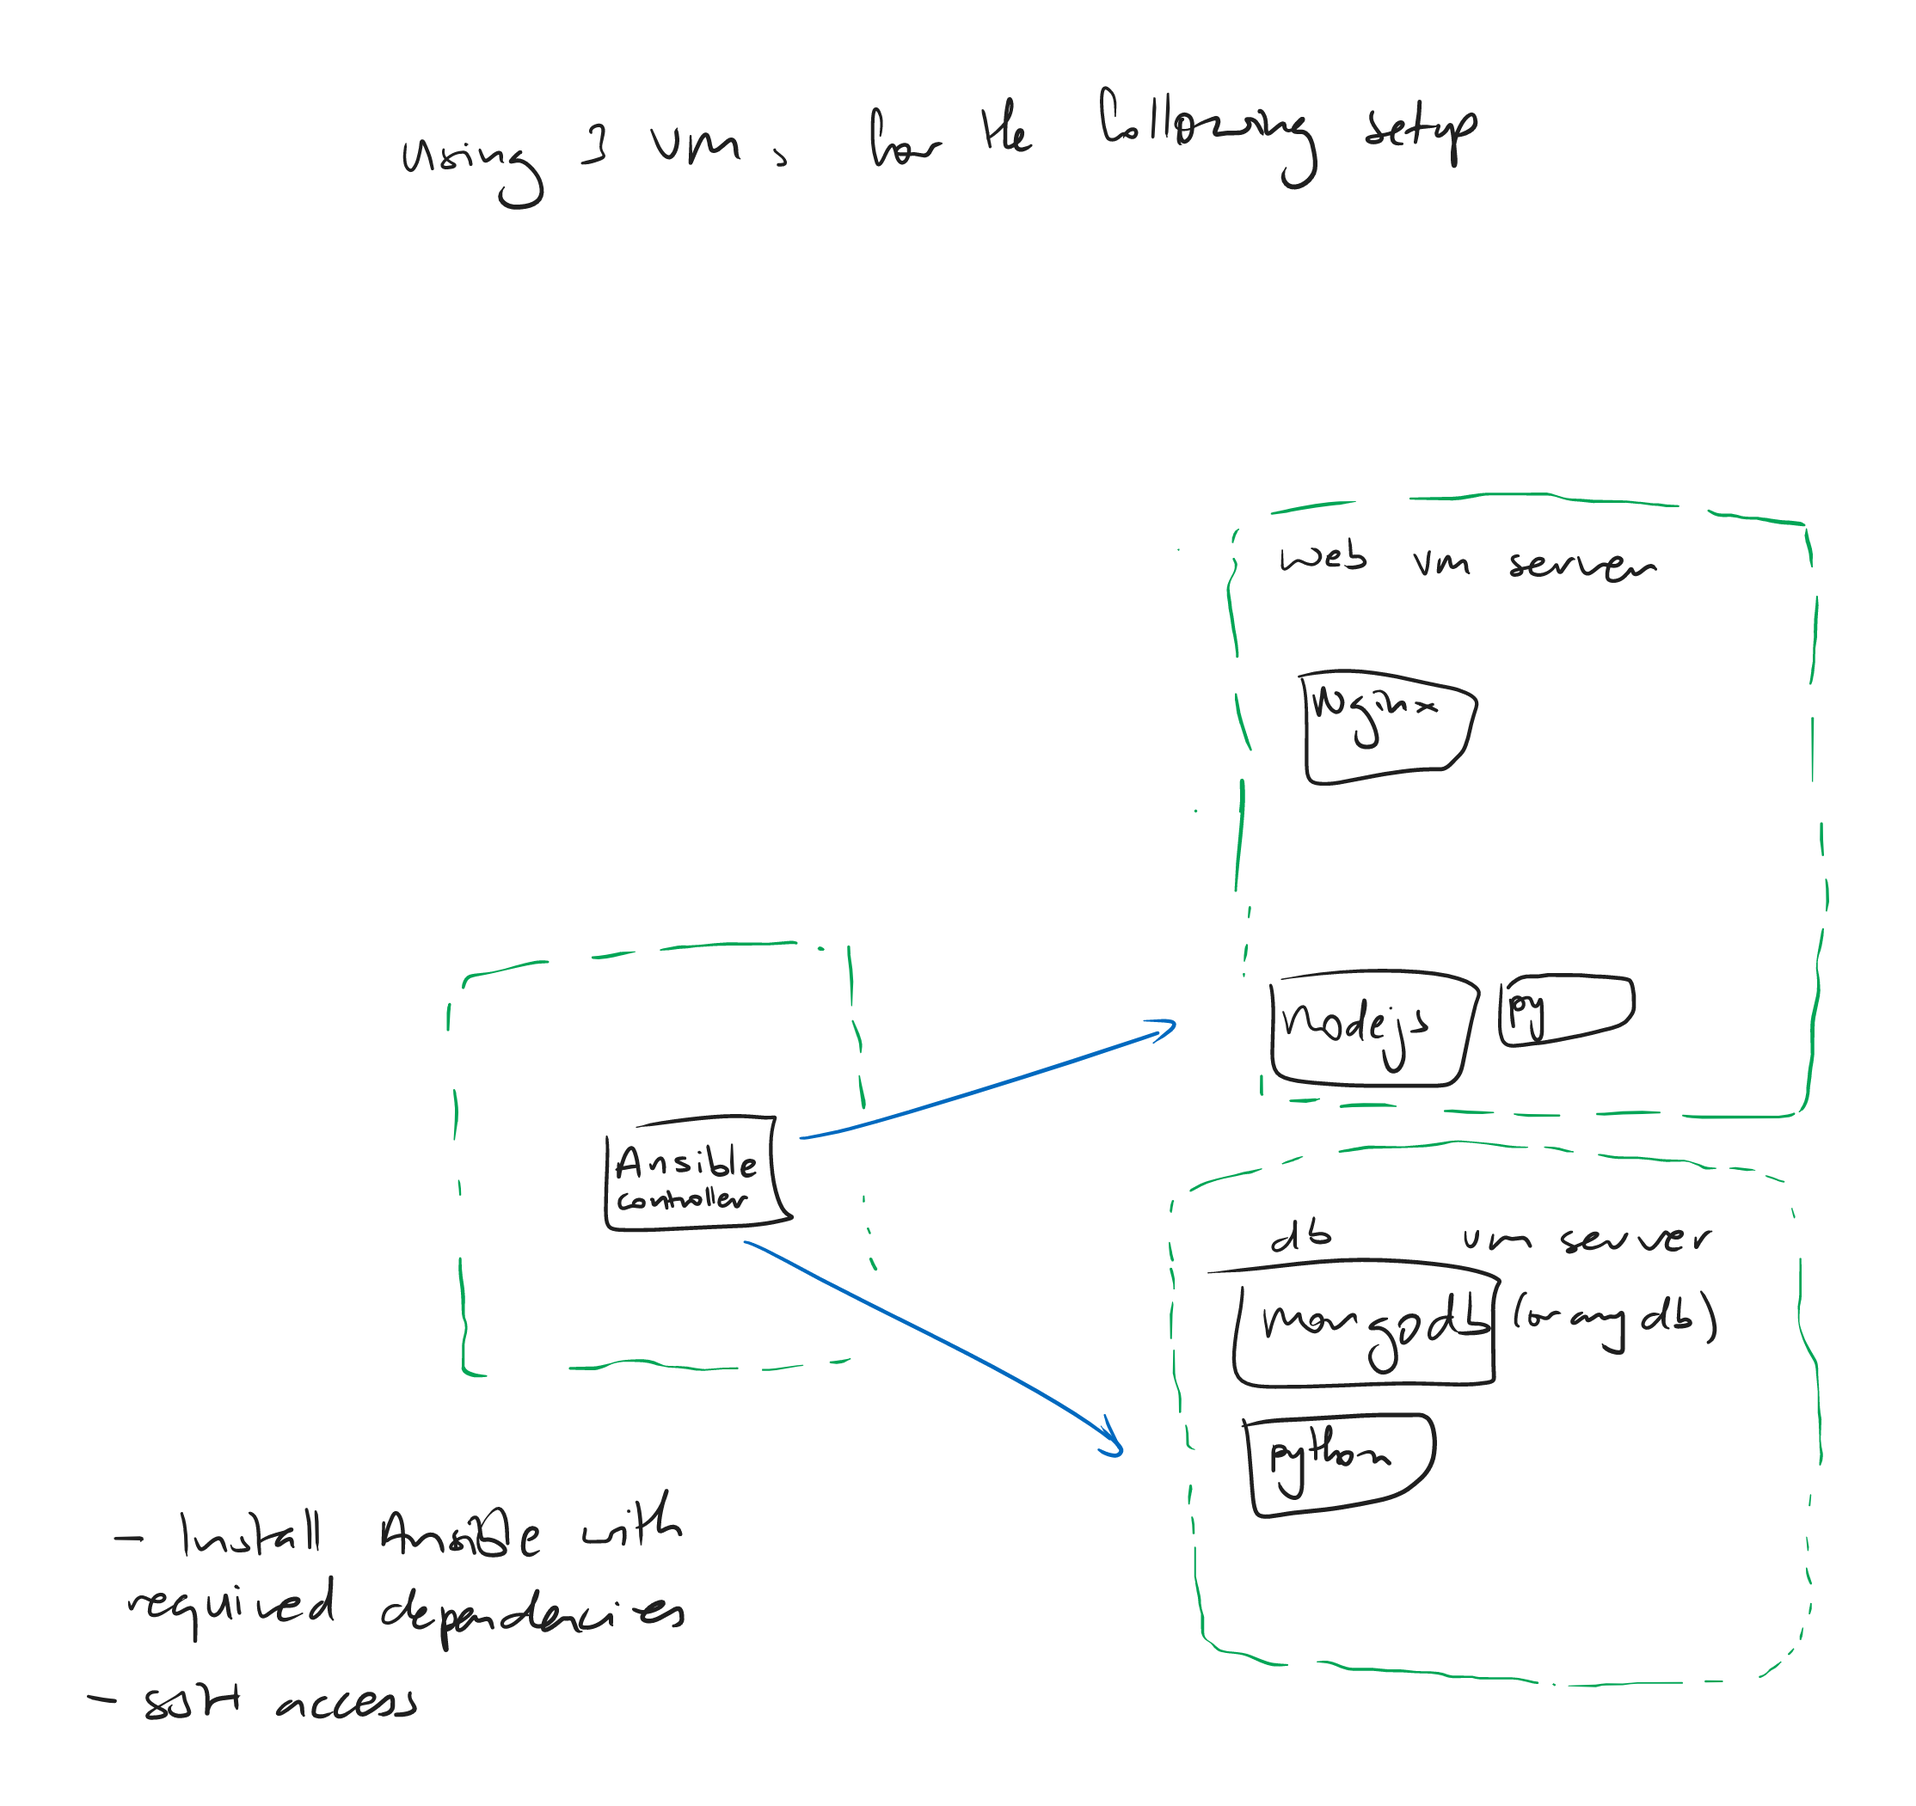
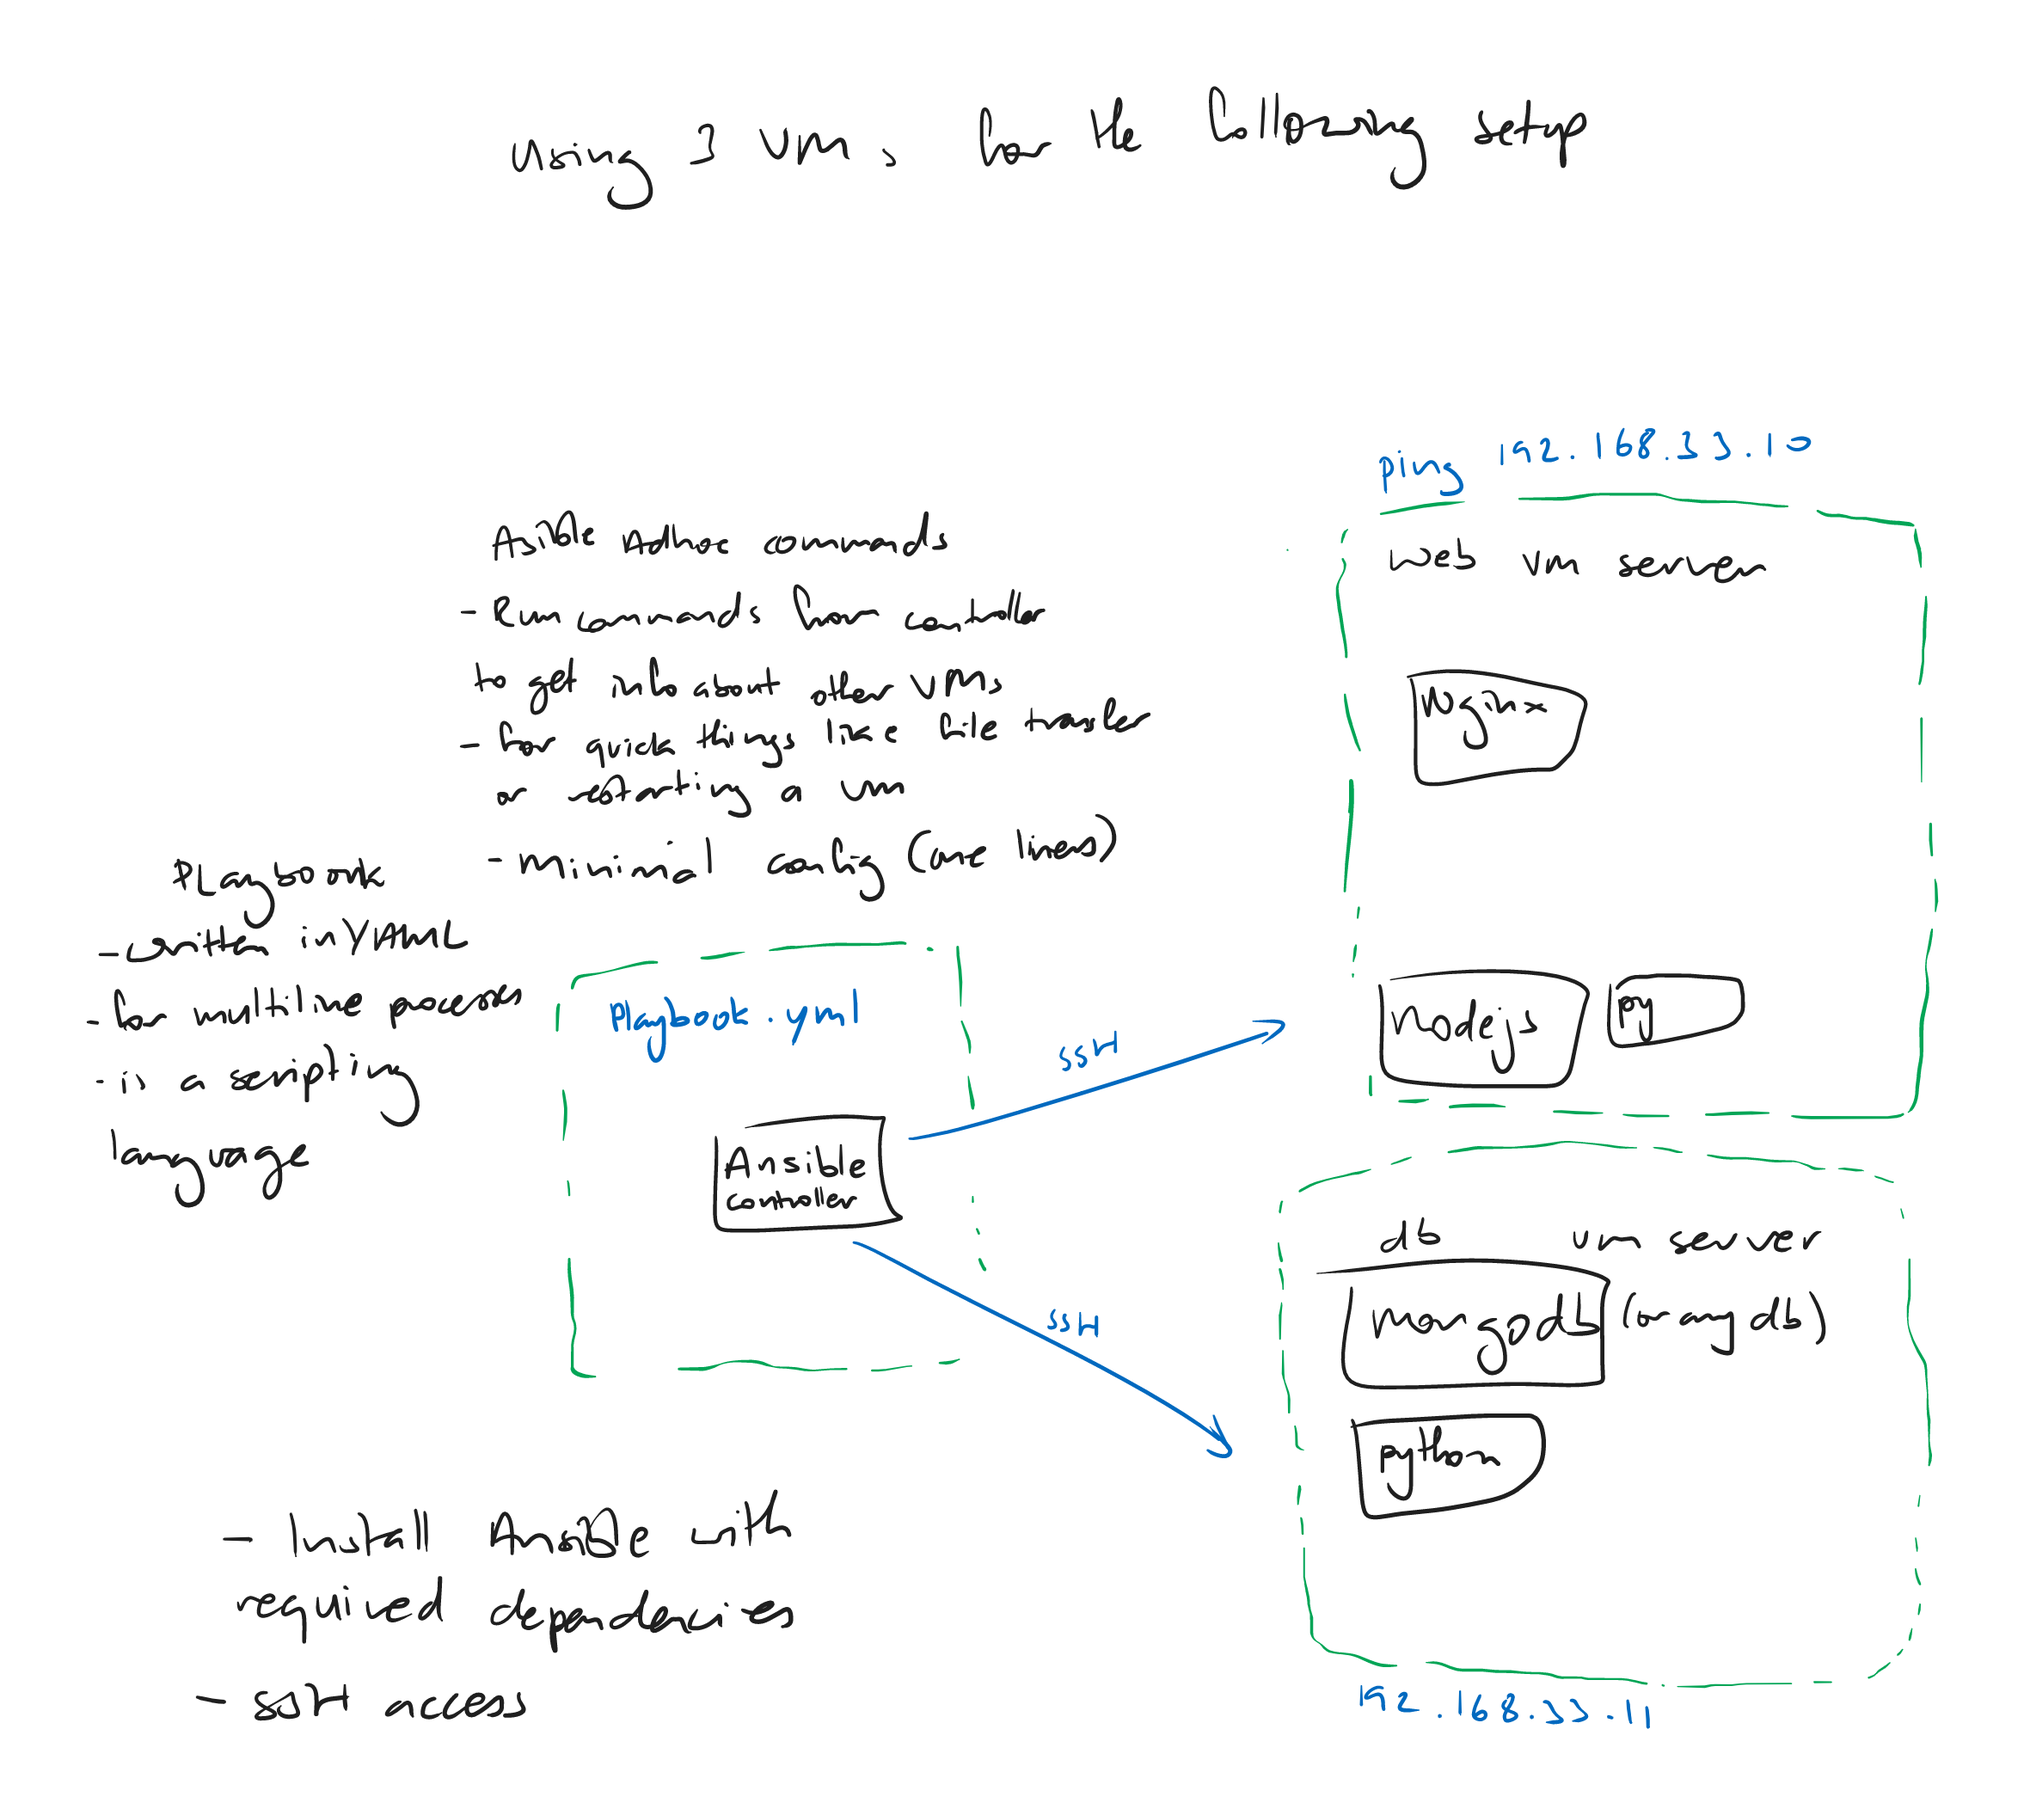
Added more notes

diff --git a/creating_ansible_controller.md b/creating_ansible_controller.md
@@ -4,6 +4,47 @@ The setup files for the controller, web, and database vms were provided for us.
 ### The Hosts File
 This is the inventory. Information about the agents goes here.
 
+### Playbooks
+These are files with the extention .yml/.yaml. They contain a set of instructions (or tasks) to do the configuration management.  
+
+We'll be creating the playbook(s) in the `/etc/ansible` directory.  
+
+While writing these files, be aware of indentation. Do *not* use tabs. Instead use spaces to get the desired indentation.  
+
+This first playbook is used to install Nginx for the web agent. The commented code restarts service. It's out of date or incorrect, so it's not being used.
+```yml
+# This is an example of an ansible playbook written in YAML
+# A YAML file begins with three dashes (---)
+---
+
+# hosts is to define the name of your host machine. You could also use 'all' to run the task for all servers
+- hosts: web
+
+  # gather facts before performing any tasks
+  gather_facts: yes
+
+  # to run in admin mode
+  become: true
+
+  # every task should have a name which is included in the output
+  # the goal of each task is to execute a module with very specific arguments
+
+  # In this tasks we need to install Nginx on the web server
+  tasks:
+
+  - name: Installing Nginx
+    apt: pkg=nginx state=present
+    #notify:
+    #- restart nginx
+    #- name: Enable nginx during boot
+    #  service: name=nginx state=started enabled=yes
+```
+
+To run a playbook:
+```
+ansible-playbook [playbook_name]
+```
+
 ## Useful Commands
 Remember to check the [documentation](https://docs.ansible.com/ansible/latest/user_guide/intro_adhoc.html) for more info.
 
@@ -22,3 +63,4 @@ The `-m` flag means module
 ---
 `ansible [agent_name] -m ping` - Another verion of the ping command. Let's you ping a named agent.  
 `ansible all -m shell -a "uptime"` - Used to the uptime for all machines in your host file.  
+`--become` - Appened to the end of a command, this allows you to run it in admin mode.  

diff --git a/README.md b/README.md
@@ -14,4 +14,19 @@ It's a method of provisioning and managing IT infrastructure through machine rea
 + More efficient
 + Saves costs
 
+## Best Practice
+- Codify everything
+- Document as little as possible
+- Maintain version control
+- Continuously test, intergrate, and deploy
+
+## Two IAC Types
+**Config management** - For provisioning and maintaining the state of systems.  
+**Orchestration** - After creating templates for all parts of the system, we need orchestration tools and scripts that talk to the cloud and pull them together into the architechture.
+
+## What is Ansible?
+
+## [Setting Up Ansible Vault](ansible_vault.md)
+Explaination here
+
 ## [Setting Up Ansible Controller](creating_ansible_controller.md)

diff --git a/ansible_vault.md b/ansible_vault.md
@@ -1,0 +1,2 @@
+# Ansible Vault
+Instructions here
